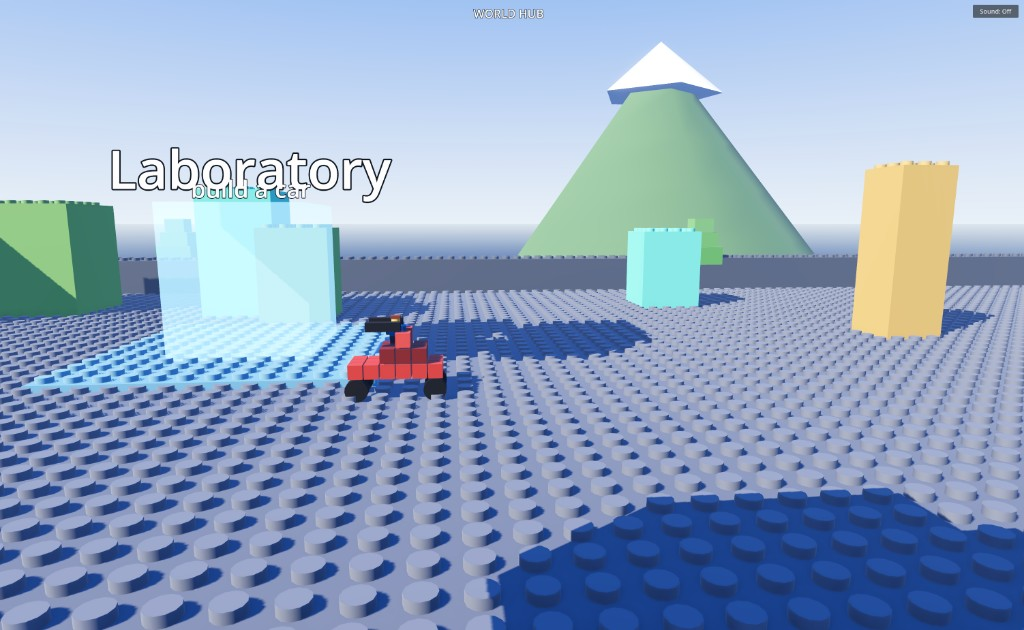
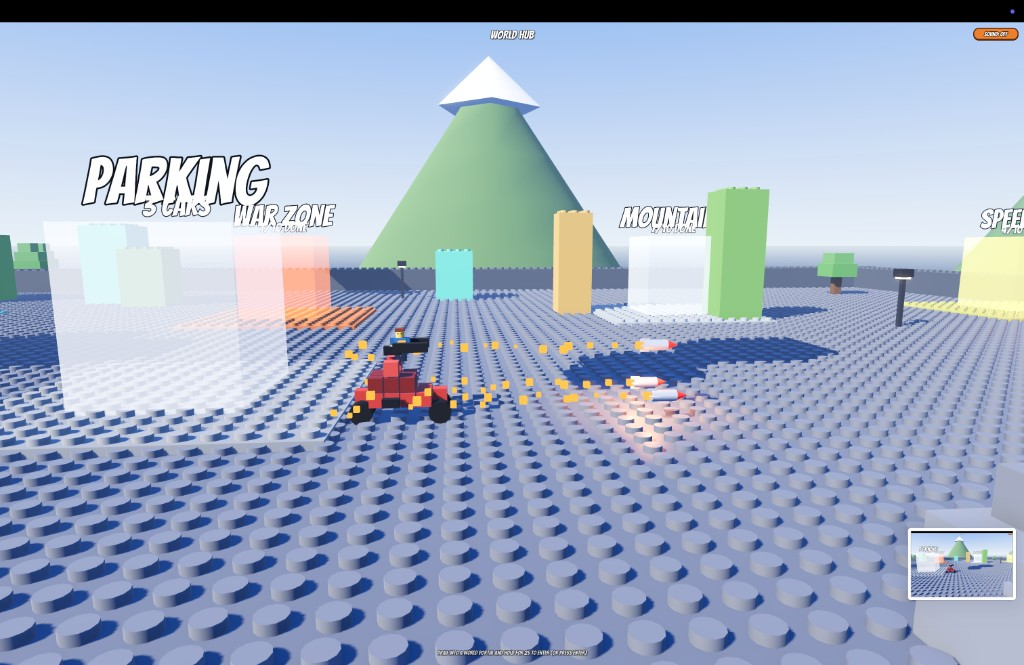
Update README: new screenshots (hub, lab, race, parking) and a full installation guide

diff --git a/README.md b/README.md
@@ -27,12 +27,15 @@ bouncy-castle). I'm pretty proud of where it landed.
   suspension, body lean into corners, and the freedom to roam a wide world.
 - **A hub world you drive around** — no clicky menus. You steer your car into a
   glowing portal, hold for a couple seconds, and it charges up and warps you in.
-- **Four themed worlds**, 10 levels each, getting harder as you go — Grassland,
-  Desert (with proper sand dunes), Neon City, and a **War Zone**. Levels are
-  generated with ramps, gaps, hazards, moving platforms, spinning arms and loops.
+- **Six themed worlds**, 10 levels each, getting harder as you go — Grassland,
+  Desert (with sand dunes), Neon City, a **War Zone**, a **Mountains** climb to
+  the summit, and a **Speedway** where you race AI cars. Levels are generated with
+  ramps, gaps, hazards, moving platforms, spinning arms, loops, falling boulders
+  and more.
 - **Rockets & combat** — roof-mounted launchers fire actual rockets with fire
   trails that explode on impact. Real area blasts that fling bricks around, enemy
   types (drones, turrets, tanks) with health bars, and floating damage numbers.
+- **Racing** — line up against bot cars and fight to cross the line in 1st place.
 - **A Laboratory where you build your own car** brick by brick — pick blocks,
   wheels and rockets, paint them, and drive your creation everywhere.
 - **A Parking lot / garage** — you start with two cars and win a new one every time
@@ -41,11 +44,16 @@ bouncy-castle). I'm pretty proud of where it landed.
   in the car). Press E to get out, wander around, jump with Space, get back in.
 - **Nice scenery** — sun, snow-capped mountains, lego trees, drifting clouds, all
   themed per world.
-- **No external assets.** Every model, every sound, every level is generated in
-  code. The "studded bricks" are deliberately generic — this isn't affiliated with
-  any toy company, just inspired by the joy of clicking bricks together.
+- **Almost no external assets.** Every model, every sound, every level is
+  generated in code (the only asset is the comic UI font). The "studded bricks"
+  are deliberately generic — this isn't affiliated with any toy company, just
+  inspired by the joy of clicking bricks together.
 
 ![The Laboratory - build your own car](screenshots/laboratory.png)
+
+![Racing AI bots on the Speedway](screenshots/race.png)
+
+![Your garage in the Parking lot](screenshots/parking.png)
 
 ![War Zone in the desert](screenshots/warzone.png)
 
@@ -62,17 +70,41 @@ bouncy-castle). I'm pretty proud of where it landed.
 
 There's a **Sound** toggle in the top-right of every screen (it starts muted).
 
-## Running it
+## Installation
 
-You'll need [Godot 4](https://godotengine.org/) (built on 4.6).
+There's nothing to compile and no dependencies to install — the whole game is
+generated in code. You just need Godot.
+
+**1. Install Godot 4** (built on **4.6**, any 4.6+ works):
+
+- Download it from [godotengine.org/download](https://godotengine.org/download), or
+- macOS (Homebrew): `brew install --cask godot`
+- Linux: grab the binary from the site, or use your package manager / Flatpak
+  (`flatpak install flathub org.godotengine.Godot`)
+- Windows: download the `.exe` from the site
+
+**2. Get the game:**
 
 ```bash
-# open it in the editor and press F5
+git clone https://github.com/mrshapron/brick-stunt-rally.git
+cd brick-stunt-rally
+```
+
+**3. Run it:**
+
+```bash
+# Easiest: open the project in the Godot editor and press F5
 godot project.godot
 
-# or just run it
-open -a Godot --args --path .   # macOS
+# Or launch it straight from the command line (from the project folder):
+godot --path .
+
+# macOS, fully detached from the terminal:
+open -a Godot --args --path "$(pwd)"
 ```
+
+The first launch imports the bundled font and builds shader caches, so give it a
+few seconds. That's it — no build step, no package manager, no assets to download.
 
 ## A peek under the hood
 